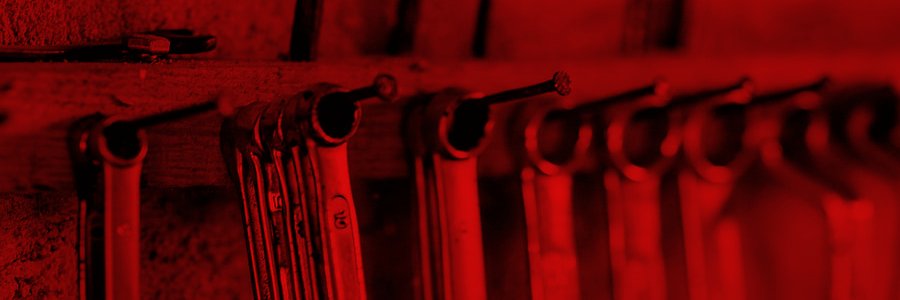
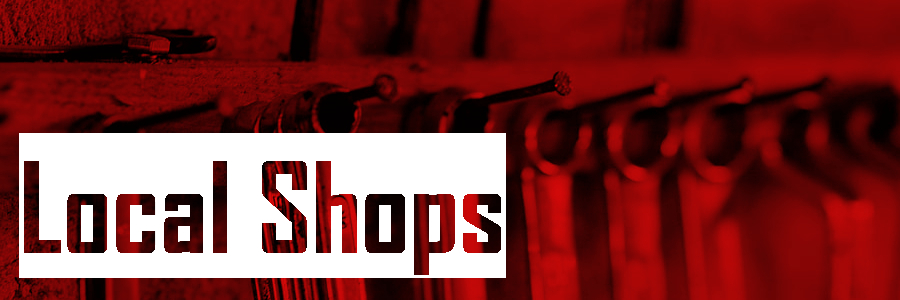
update

Changed region(s): [[0.0, 0.42, 0.56, 0.93]]

diff --git a/sacm_home.css b/sacm_home.css
@@ -536,7 +536,6 @@ fieldset > label {
     .topnav.responsive {
       position: fixed;
       width: 75%;
-      height: 100%;
       z-index: +3;
       right: 0;
       margin-bottom: 0;
@@ -661,7 +660,7 @@ fieldset > label {
 h1 > p#galleryTitle {
     display: block;
     left: 12.5%;
-    margin-top: 25%;
+    margin-top: 15%;
     position: relative;
     width: 75%;
     text-align: center;
@@ -687,11 +686,25 @@ div.welcome {
 
 }
 
-div.partners > #par-vinylty > img{
+div.partners {
+  background-image: url(gallery/partner-bg.gif);
+  position: absolute;
+  z-index: -1;
+  top: 0;
+}
+
+div.partners > #par-vinylty > a > img{
   width: 20%;
   border-radius: 6px 6px 6px 6px;
   left: 40%;
   position: relative;
+  position: relative;
+  margin-top: 0;
+  transition: ease 1s;
+}
+
+div.partners > #par-vinylty > a > img:hover {
+  transform: scale(1.1);
 }
 
 div.welcome h2 {
@@ -718,6 +731,7 @@ div.welcome p {
     margin-left: 0;
     margin-right: 0;
     margin-bottom: 5%;
+    margin-top: 65%;
     width: 100%;
     padding-bottom: 0;
     background-color: black;
@@ -743,15 +757,15 @@ div.welcome p {
     position: absolute;
     top: 45%;
     padding: 15px;
-    color: black;
+    color: rgb(218, 0, 0);
     font-weight: bold;
     font-size: 16px;
     border-radius: 0 60px 60px 0;
     user-select: none;
     -webkit-user-select: none;
-    background-color: rgb(255, 255, 255);
+    background-color: rgb(0, 0, 0);
     transition: 0.6s ease;
-    box-shadow:0 6px 20px 0 rgba(0, 0, 0, 0.384), 0 8px 20px 0 rgba(0, 0, 0, 0.342)
+    box-shadow:0 6px 20px 0 rgba(0, 0, 0, 0.466), 0 8px 20px 0 rgba(0, 0, 0, 0.342)
 
   }
   
@@ -763,7 +777,7 @@ div.welcome p {
   /* On hover, add a black background color with a little bit see-through */
   .prev:hover,
   .next:hover {
-    background-color: rgba(0, 0, 0, 0.8);
+    background-color: rgba(0, 0, 0, 0.24);
     color: white;
   }
   

diff --git a/index.html b/index.html
@@ -52,20 +52,21 @@
 
       </header>
 
-      <h1><p id="galleryTitle">Partners</p></h1>
+    
 
 <div class="partners">
+  <h1 style="color:white; margin-top: 0; position: relative; top: 0;"><p id="galleryTitle">Partners</p></h1>
     <div id="par-vinylty">
-      <img src="gallery/detailing/vinylty_logo.jpg">
+     <a href="https://www.vinylty.com/" target="_blank"> <img src="gallery/detailing/vinylty_logo.jpg"></a>
     </div>
 
 </div>
 
 
 
-
+<!---
 <h1><p id="galleryTitle">Photos of the Week!</p></h1>
-
+-->
 <!-- Container for the image gallery -->
 <div class="container">
 
@@ -124,11 +125,11 @@
   <h1 style="font-size: 5vw; font-family: 'Permanent Marker'; text-align: center; color: black;   box-shadow:0 6px 20px 0 rgba(0, 0, 0, 0.384), 0 8px 20px 0 rgba(0, 0, 0, 0.342);
   width: 75%; position: relative; left: 12.5%;">Quick Links</h1>
   <a href="local.html"><img id="ind12" src="gallery/local_mech.jpg" alt="Local Mechanics"></a>
-    <p id="inde12"><a style="text-decoration: none;" href="local.html">Local Shops</a></p>
+    <p id="inde12"><a style="text-decoration: none;" href="local.html"></a></p>
   <a href="parts.html"><img id="ind13" src="gallery/part_sale.JPG" alt="Parts for Sale"></a>
-    <p id="inde13"><a style="text-decoration: none;" href="parts.html">Parts for Sale</a></p>
+    <p id="inde13"><a style="text-decoration: none;" href="parts.html"></a></p>
   <a href="cars.html"><img id="ind14" src="gallery/car_sale.JPG" alt="Cars for Sale"></a>
-    <p id="inde14"><a style="text-decoration: none;" href="cars.html">Cars for Sale</a></p>
+    <p id="inde14"><a style="text-decoration: none;" href="cars.html"></a></p>
 </div>
 
 

diff --git a/local.html b/local.html
@@ -258,6 +258,14 @@
   <div id="detailing" class="tabcontent">
     <h3>Detailing</h3>
     
+    <h3 style="width: 75%;position: relative; left:12.5%; text-align: center; letter-spacing: 2px;
+    background-color: white; color: darkred;">Tap on a Shop to<br>    find out more!</h3>
+    
+    
+    <!--tile 1-->
+    
+   
+    <hr>
 <!--------Tile 1-->
   <div class="container">
     <img id="engine" style="filter: invert(1); width: 50%; margin-left: auto; margin-right: auto;" src="gallery/detailing/vinylty_logo.jpg">
